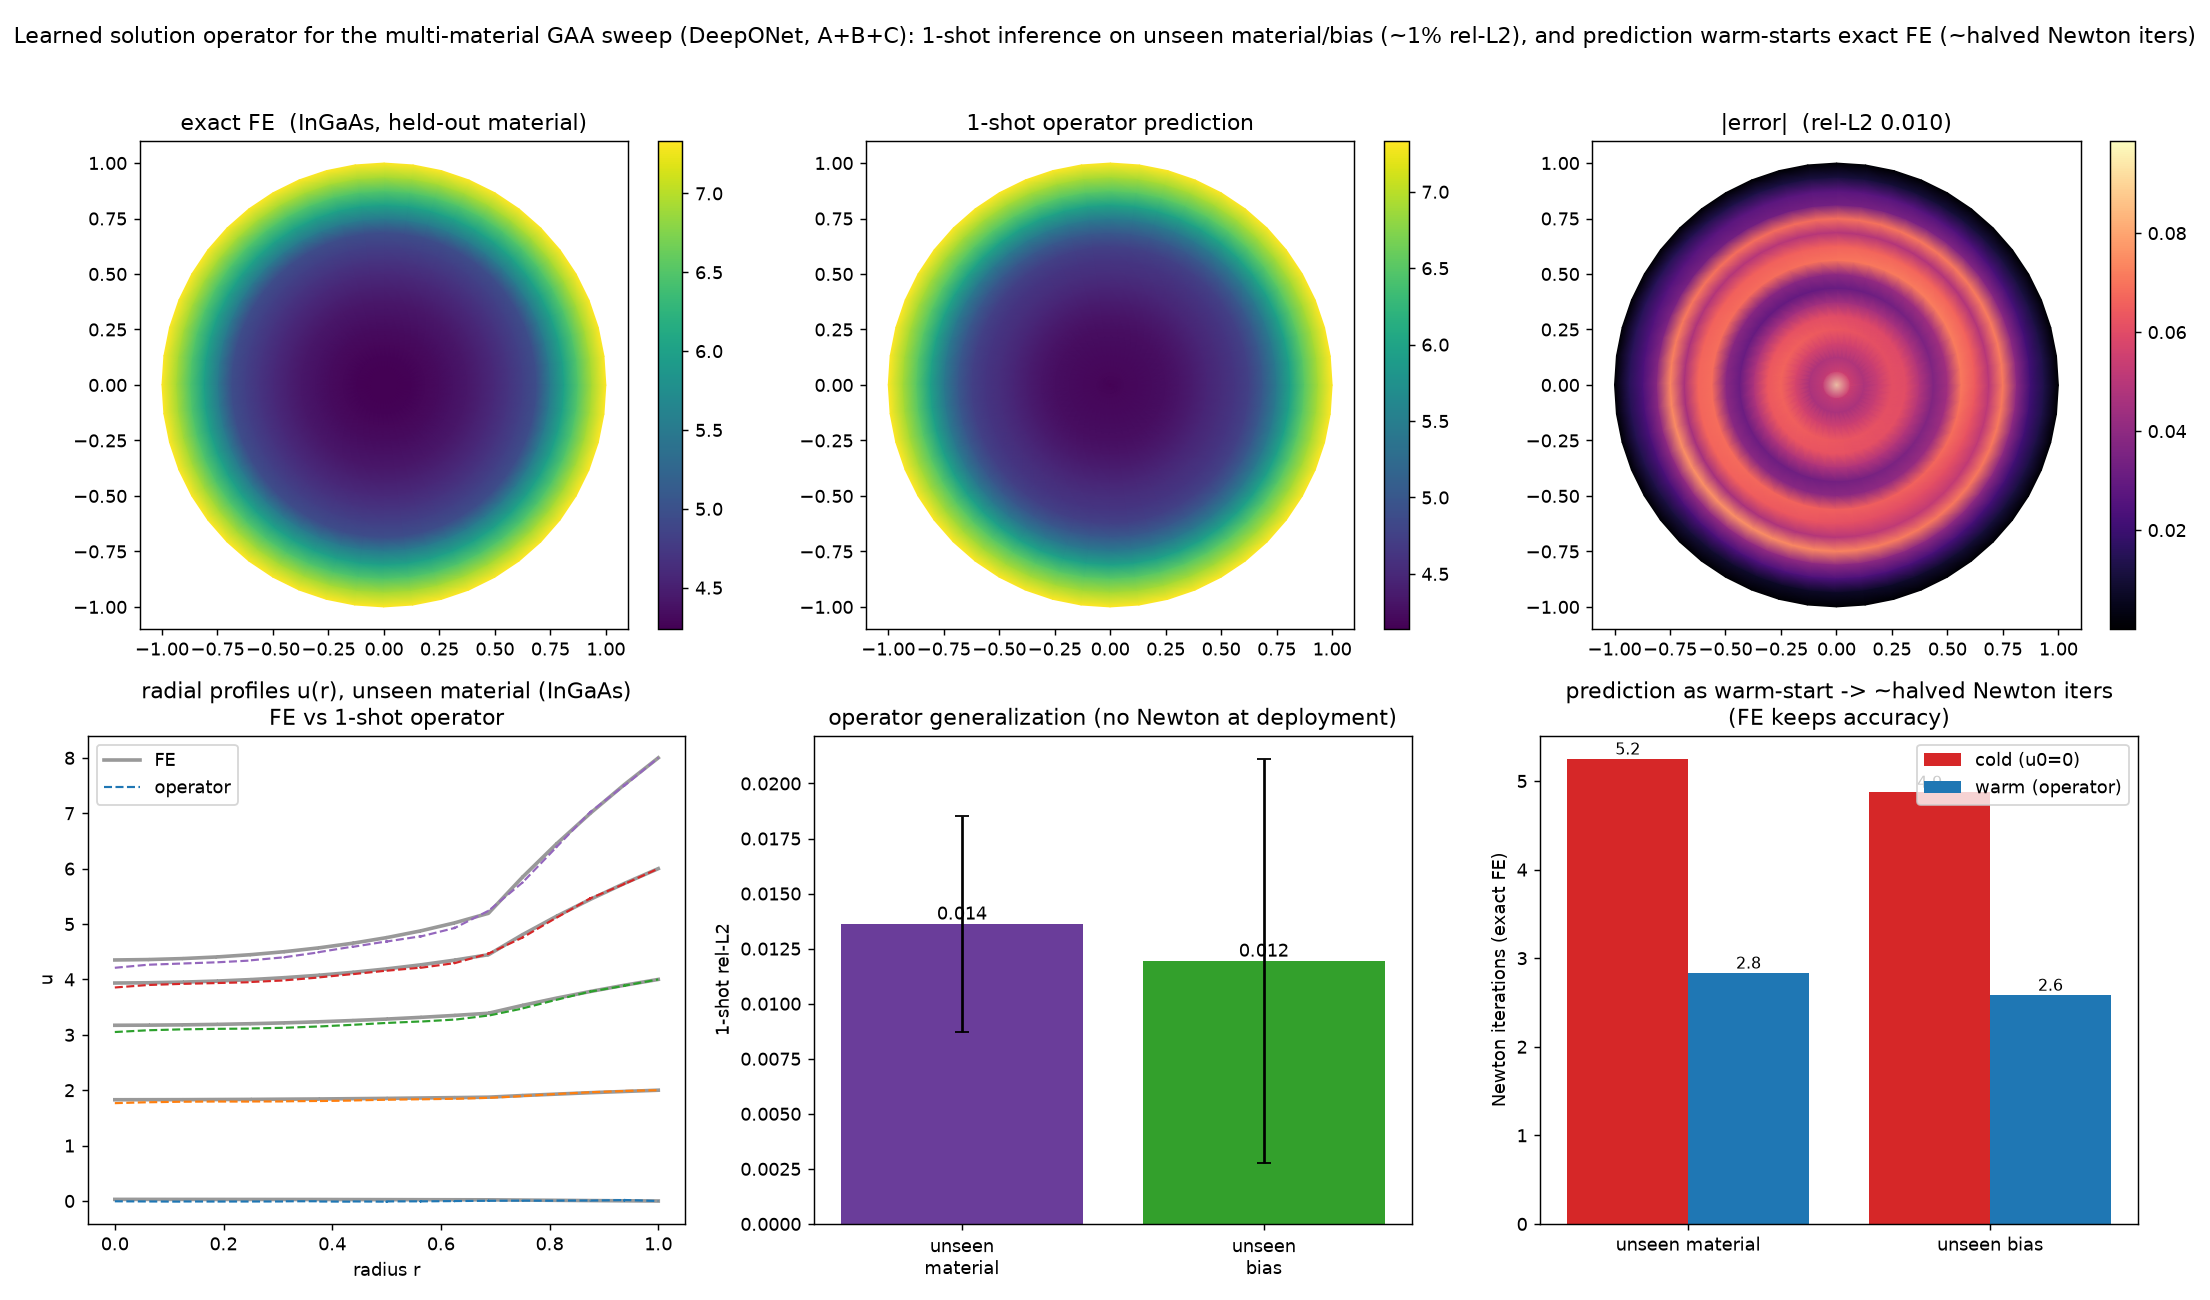
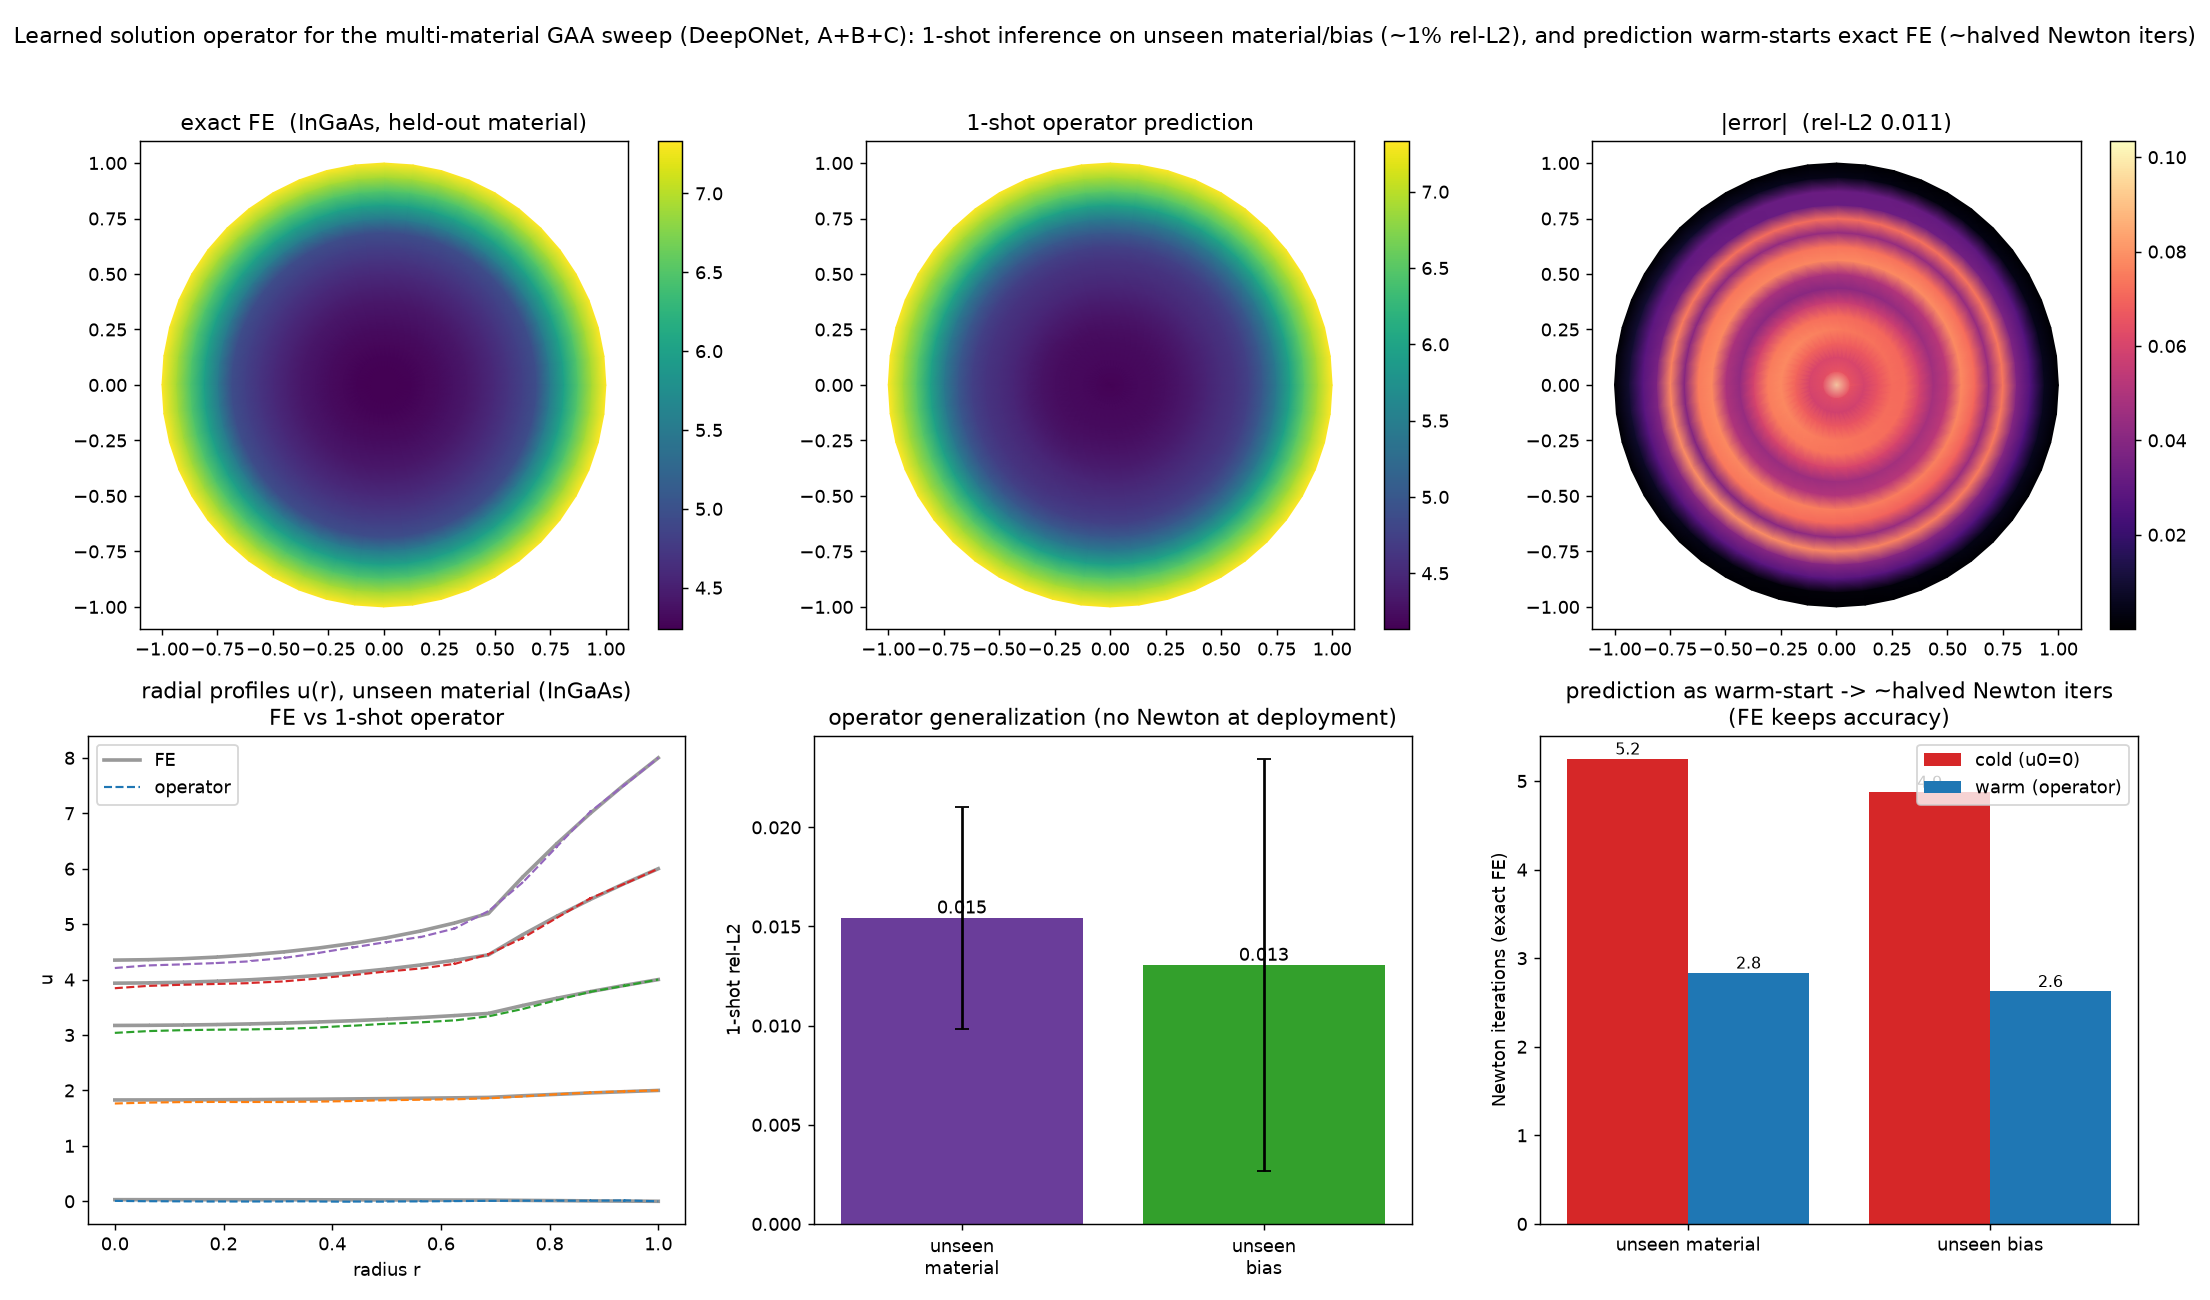
Address CodeRabbit review at 56096d7 (leak fix + doc accuracy)
Code:
- gaa_operator_deeponet.py: compute branch-input normalization stats from
  train_mats only, so the held-out material (InGaAs) no longer leaks into
  preprocessing. Re-ran: unseen-material rel-L2 0.015, unseen-bias 0.013,
  warm-start 5.2->2.8 (numbers essentially unchanged; leak was mild but the
  fix is the correct methodology).

CONCEPT doc:
- A-bullet: distinguish the linear residual K(e)phi-Mrho from the nonlinear
  Poisson-Boltzmann residual K(e)phi + kappa*M*sinh(phi) - Mrho used by
  demos 3-5,10,11.
- Dependency note: rewrite to match actual imports (2,4,5,6 reuse
  pi_deeponet_fem_gaa.py; 11 reuses gaa_material_sweep_warmstart.py;
  1,3,7,8,9,10 standalone) instead of the earlier contradictory claim.
- Section 4: narrow the weak-form claim to interface-discontinuous eps
  (true unstructured mesh + AMR is future work, not demonstrated); add
  demos 10 and 11 to the solver-acceleration positioning.
- References: label PaRO-DeepONet as adjacent PIC work, keeping VarMiON as
  the weak-form operator reference.

The Balaji+2026 citation is unchanged: title/authors/DOI are transcribed
from the published PDF first page, which shows this exact DOI with this
exact title (CrossRef's registered title appears to be a stale
registration-time title for the same article number).

Claude-Session: https://claude.ai/code/session_01TbPwqgUS5oNeMha35iGnea

diff --git a/gaa_operator_deeponet.py b/gaa_operator_deeponet.py
@@ -108,9 +108,13 @@ def main():
             u, _, _ = newton(K, ML, kap, fdop, vg, free, gate, np.zeros(N))
             fields[(m, k)] = u
 
-    # ---- condition-parameter normalisation (branch input) ----
-    eps_all = np.array([mm[1] for mm in per_mat])
-    kap_all = np.log10(np.array([mm[2] for mm in per_mat]))
+    # ---- train / test split ----
+    train_mats = [0, 2, 3, 4]                       # hold out InGaAs (index 1)
+
+    # ---- condition-parameter normalisation (branch input; TRAIN materials only,
+    # so the held-out material's eps/kappa never leak into preprocessing) ----
+    eps_all = np.array([per_mat[m][1] for m in train_mats])
+    kap_all = np.log10(np.array([per_mat[m][2] for m in train_mats]))
     e_mu, e_sd = eps_all.mean(), eps_all.std()
     k_mu, k_sd = kap_all.mean(), kap_all.std()
 
@@ -118,9 +122,6 @@ def main():
         return [(per_mat[m][1] - e_mu) / e_sd,
                 (np.log10(per_mat[m][2]) - k_mu) / k_sd,
                 vg / args.vmax]
-
-    # ---- train / test split ----
-    train_mats = [0, 2, 3, 4]                       # hold out InGaAs (index 1)
     train_bk = list(range(0, args.nbias, 2))        # even bias indices
     test_bk = [k for k in range(args.nbias) if k not in train_bk]
     train = [(m, k) for m in train_mats for k in train_bk]

diff --git a/research/CONCEPT_weakform_operator_learning_semiconductor.md b/research/CONCEPT_weakform_operator_learning_semiconductor.md
@@ -30,7 +30,9 @@ PI-DeepONet で置換**（背景整理: [`PI_DEEPONET_MC_ONLINE_LEARNING.md`](./
 詳細設計: [`FEM_OPERATOR_LEARNING_GAA_IDEA.md`](./FEM_OPERATOR_LEARNING_GAA_IDEA.md)。
 
 4つの構成要素:
-- **A. 弱形式損失**: 物理損失を点ごとラプラシアン(強形式)でなく**組立済み FE 残差 K(ε)φ−Mρ**(Galerkin)に。
+- **A. 弱形式損失**: 物理損失を点ごとラプラシアン(強形式)でなく**組立済み FE 残差**(Galerkin)に。
+  線形ポアソンなら `K(ε)φ−Mρ`、非線形ポアソン/Poisson–Boltzmann(③〜⑤⑩⑪)は φ 依存のキャリア項が入り
+  残差は `K(ε)φ + κ·M·sinh(φ) − Mρ`(Dirichlet 境界で強制)。いずれも「組立済み FE 残差＝Galerkin」が核。
 - **D. FE a-posteriori 誤差評価**: 残差指標が「メッシュ細分化」と「オンライン追学習トリガ」を統一。
 - **B. GNN branch**: FE メッシュグラフを摂取し任意メッシュに対応(repo の mesh-agnostic GNN と地続き)。
 - **C. FEM=精度の権威, ネット=加速器**: Newton の初期値だけを与えるウォームスタート(置換でなく加速)。
@@ -51,12 +53,13 @@ PI-DeepONet で置換**（背景整理: [`PI_DEEPONET_MC_ONLINE_LEARNING.md`](./
 | ⑧ | [`dd_full_1d.py`](../dd_full_1d.py) | **完全ドリフト拡散**（1D pnダイオード, Scharfetter–Gummel＋Gummel）＋バイアス継続ウォームスタート | **理想ダイオードI-V検証**（V=0でJ≈1e-11, 順バイアスで J∝(e^{V/Vt}−1)）。掃引の Gummel 反復 cold 203 → warm 184（~10%削減, 正直に控えめ＝反復は注入水準支配） |
 | ⑨ | [`dd_breakdown_continuation.py`](../dd_breakdown_continuation.py) | 高逆バイアス coupled DD: **継続法が"必須"**（cold は基底を外れて発散） | cold（平衡から直接）は **4Vt** までしか収束せず発散、**継続法は 45Vt 到達**。案C が「速い」でなく「収束/発散を分ける」領域を実証（衝突イオン化は安定重視で mild ~x2.1, 真のavalanche/Full-Newton連立は要スケーリングの重い拡張として明記） |
 | ⑩ | [`gaa_material_sweep_warmstart.py`](../gaa_material_sweep_warmstart.py) | C: **多材料 GAA スイープの償却**（円筒断面で Si/Ge/GeSn/InGaAs/MoS₂ ×バイアス掃引 = 実TCADワークロード, cf. Balaji+2026） | **45 自己整合FE解**の総 Newton 反復 cold **217 → warm 161（26%削減）**。バイアス継続＋**材料転写**（同一形状で ε/遮蔽のみ変更）で償却。円筒（曲面）断面ゆえ**弱形式FEの必然性**とも接続。材料依存電荷（小ギャップ Ge/GeSn ほど強遮蔽）も再現 |
-| ⑪ | [`gaa_operator_deeponet.py`](../gaa_operator_deeponet.py) | **A+B+C 統合**: ⑩を**学習演算子化**（DeepONet: (ε,κ,V_g)×(x,y)→u）。1発推論＋warm-start | **未知材料**(InGaAs, 学習に不使用)へ 1-shot **rel-L2 0.014**、**未知バイアス** 0.012（デプロイ時 Newton 不要）。予測を warm-start にすると厳密FE Newton が cold **5.2 → 2.8**（約半減, tol=1e-9ゆえ1反復には潰れない）。弱形式FEデータ(A)＋演算子学習(B)＋加速(C)を実ワークロードで一体化 |
+| ⑪ | [`gaa_operator_deeponet.py`](../gaa_operator_deeponet.py) | **A+B+C 統合**: ⑩を**学習演算子化**（DeepONet: (ε,κ,V_g)×(x,y)→u）。1発推論＋warm-start | **未知材料**(InGaAs, 学習に不使用)へ 1-shot **rel-L2 0.015**、**未知バイアス** 0.013（デプロイ時 Newton 不要）。予測を warm-start にすると厳密FE Newton が cold **5.2 → 2.8**（約半減, tol=1e-9ゆえ1反復には潰れない）。正規化統計は学習材料のみで算出（未知材料の漏洩なし）。弱形式FEデータ(A)＋演算子学習(B)＋加速(C)を実ワークロードで一体化 |
 
 図: `pi_deeponet_fem_gaa.png`, `bench_weak_vs_strong.png`, `fe_newton_warmstart.png`, `dd2d_newton_warmstart.png`, `cfet_stack_warmstart.png`, `tsv_thermal_stress.png`, `tsv_3d_stress.png`, `dd_full_1d.png`, `dd_breakdown_continuation.png`, `gaa_material_sweep_warmstart.png`, `gaa_operator_deeponet.png`。
 > ①〜⑤⑧⑨⑩⑪は半導体デバイス（電気物理; ①〜⑤⑩⑪は平衡ポアソン、⑧⑨は非平衡・輸送の完全DD）、⑥⑦は
 > 3D積層/パッケージ（後工程・熱機械）で、本リポジトリの CFRP 応力 FEA×GNN 中核に最も近い橋渡し。
-> 依存関係: ④⑤⑩⑪は `pi_deeponet_fem_gaa.py`/`gaa_material_sweep_warmstart.py` の FE 資産を再利用（他は単体）。
+> 依存関係（実 import 準拠）: ②④⑤⑥は `pi_deeponet_fem_gaa.py` の FE 資産（`build_mesh`/`assemble`/`eps_map`）を、
+> ⑪は `gaa_material_sweep_warmstart.py`（メッシュ/組立/Newton）を再利用。①③⑦⑧⑨⑩は単体で自己完結。
 各デモは CPU で数分・seed 固定で再現可能。`bench_weak_vs_strong.py` は同リポの
 `pi_deeponet_fem_gaa.py` の `build_mesh`/`assemble` を再利用（＝リポジトリ依存）。他デモは単体で自己完結。
 
@@ -70,11 +73,12 @@ PI-DeepONet で置換**（背景整理: [`PI_DEEPONET_MC_ONLINE_LEARNING.md`](./
 （以下、丸数字のうち §1 の**分類**は「定番⑥」等、§3 の**デモ**は「デモ②」等と明示して区別する。）
 
 - **弱形式 × 演算子学習**: 定番②CNN格子/③PINN/④GNN がいずれも強形式・格子/点ごとなのに対し、
-  界面不連続 ε・非構造メッシュに頑健な**弱形式**を核にした点（**デモ②**が定量的裏付け）。
+  **界面不連続 ε に頑健な弱形式**を核にした点（**デモ②**が定量的裏付け。⑩は円筒＝曲面境界にも適用）。
+  真の非構造メッシュ＋AMR への一般化は §6 ロードマップの将来課題（本 PR では未実証）。
 - **オンライン適応 × a-posteriori 誤差**: FE 誤差指標が細分化とオンライン追学習を統一（**デモ①**）。
 - **ソルバ加速フレーム（定番⑥ウォームスタート）への接続**: 「ML で TCAD 収束を加速」の受けの良い
-  王道に、弱形式演算子の新規性を接続（**デモ③④⑤**、案C）。**精度は FEM が保証**し置換しない、
-  という安全な主張。
+  王道に、弱形式演算子の新規性を接続（**デモ③④⑤**＝Newton warm-start、**⑩**＝材料/バイアス継続、
+  **⑪**＝学習演算子 warm-start、案C）。**精度は FEM が保証**し置換しない、という安全な主張。
 
 ---
 
@@ -115,7 +119,9 @@ PI-DeepONet で置換**（背景整理: [`PI_DEEPONET_MC_ONLINE_LEARNING.md`](./
 ## 7. 関連研究・一次情報
 
 **演算子学習・弱形式**: Lu et al. DeepONet (*Nat. Mach. Intell.* 2021); Wang et al. PI-DeepONet
-(*Sci. Adv.* 2021); Patel et al. VarMiON (弱形式演算子); Kim et al. PaRO-DeepONet (arXiv:2504.19065)。
+(*Sci. Adv.* 2021); Patel et al. VarMiON (弱形式/変分演算子)。
+**隣接（PIC ポアソン）**: Kim et al. PaRO-DeepONet (arXiv:2504.19065, 粒子情報つき縮約演算子＝PIC 用で
+弱形式FEM半導体研究ではない。関連手法として併記)。
 **分野レビュー/定番**: *A Comprehensive Review of ML for Semiconductor Device Modeling* (2025);
 DDNet (PINN連立); PCGD (arXiv:2606.29272, 物理ガイド拡散×TCAD); ML による TCAD 収束加速。
 **元研究**: Otsuki & Mori, *Online Learning-Accelerated 3D MC for GAA*, WCCM-ECCOMAS 2026 STS415
